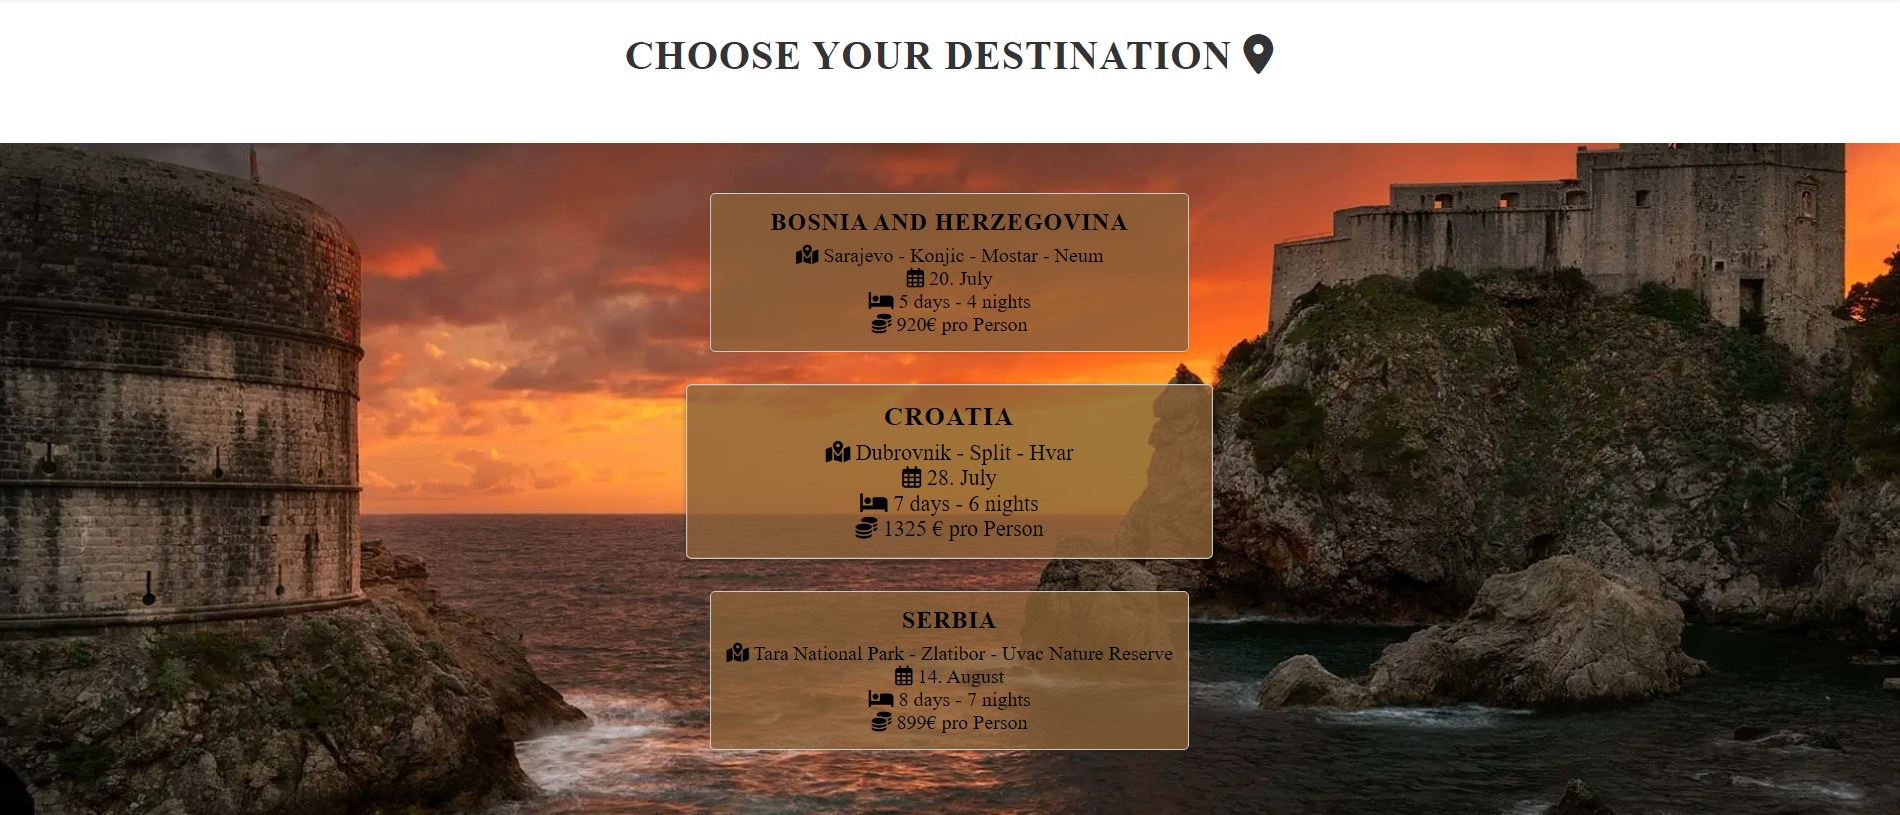
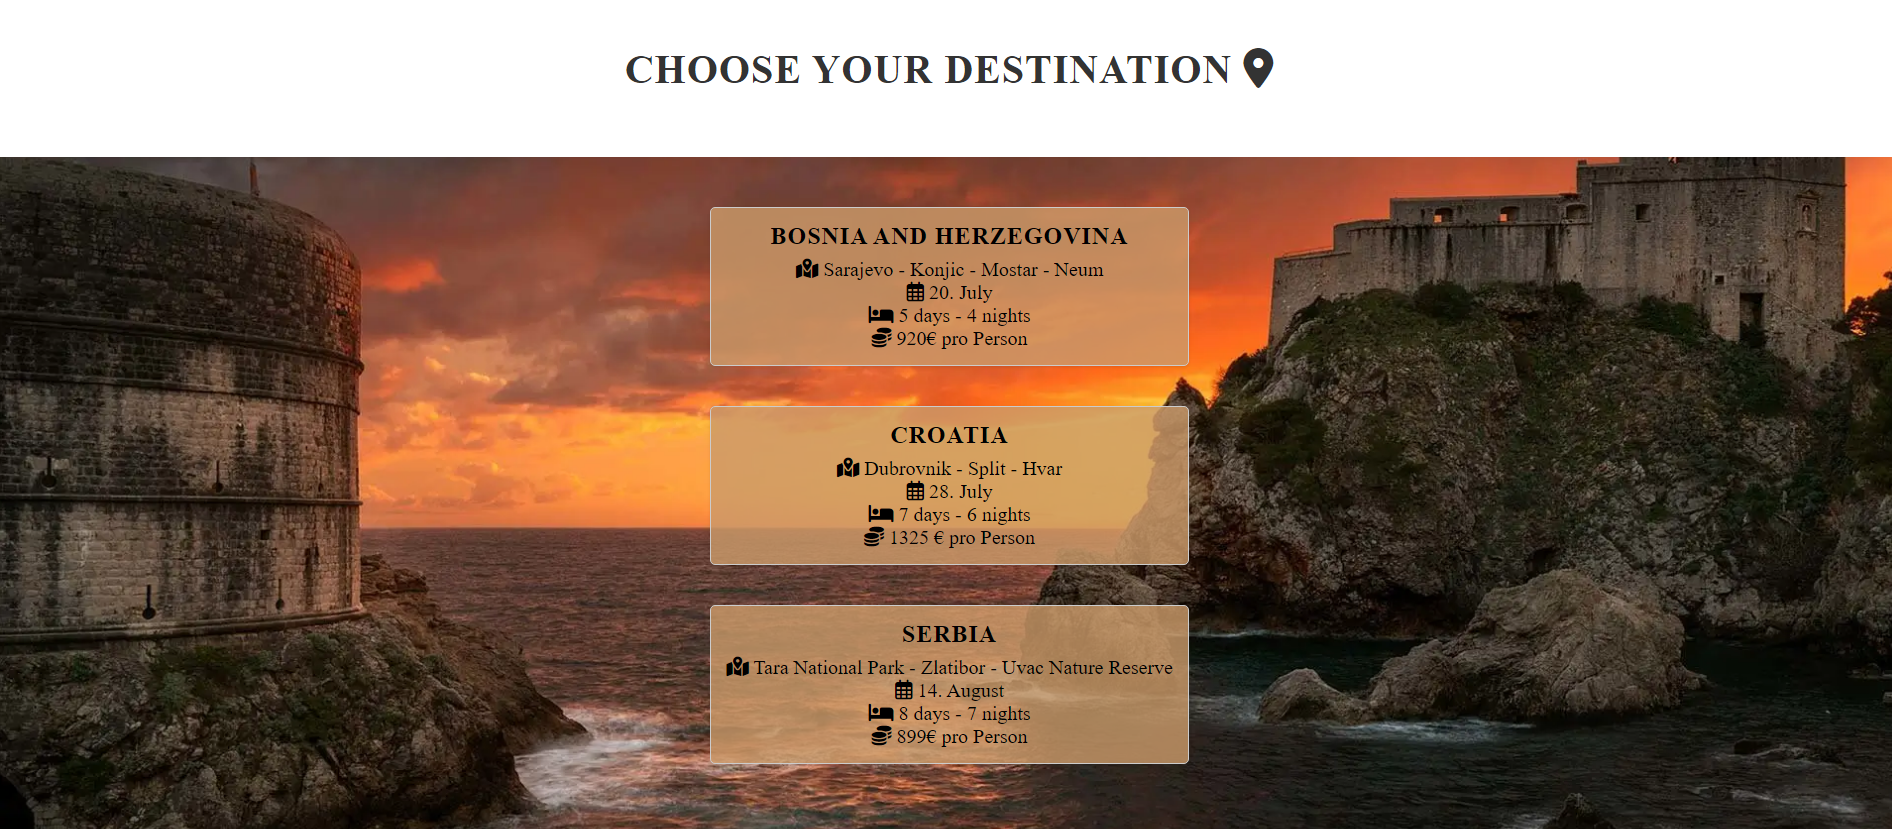
Style and grammar check

diff --git a/index.html b/index.html
@@ -29,7 +29,7 @@
                 <li><a href="index.html" class="active">Home</a></li>
                 <!-- Links to a specific element with the ID "signup" on the current page -->
                 <li><a href="#signup">Sign Up</a></li>
-                <li><a href="gallery.html">Balkan Highlights <i class="fa-regular fa-images"></i></a></li>
+                <li><a href="gallery.html">Balkan Highlights</a></li>
             </ul>
         </nav>
     </header>
@@ -72,7 +72,8 @@
         <section id="signup">
             <h2>Stay Updated on Balkan Adventures <i class="fa-brands fa-gratipay"></i></h2>
             <div id="signup-form">
-                <form action="process_signup.php" method="post">
+                <!-- Formdump CI-->
+                <form method="POST" action="https://formdump.codeinstitute.net">
                     <!-- E-Mail -->
                     <label for="email">E-mail Address:</label>
                     <input type="email" id="email" name="email" required autocomplete="email">
@@ -103,8 +104,7 @@
                         class="fa-brands fa-youtube"></i></a></li>
         </ul>
     </footer>
-<!-- Font Awsome -->
-<link rel="stylesheet" href="https://cdnjs.cloudflare.com/ajax/libs/font-awesome/6.4.2/css/all.min.css">
+    <!-- Font Awsome -->
+    <link rel="stylesheet" href="https://cdnjs.cloudflare.com/ajax/libs/font-awesome/6.4.2/css/all.min.css">
 </body>
-
 </html>

diff --git a/gallery.html b/gallery.html
@@ -16,6 +16,7 @@
     <link rel="icon" type="image/png" sizes="16x16" href="assets/favicon/favicon-16x16.png">
     <link rel="stylesheet" href="assets/css/style.css">
 </head>
+
 <body>
     <header>
         <a href="index.html">
@@ -26,7 +27,8 @@
         <nav>
             <ul id="menu">
                 <li><a href="index.html">Home</a></li>
-                <li><a href="gallery.html" class="active">Balkan Highlights <i class="fa-regular fa-images"></i></a>
+                <li><a href="index.html#signup">Sign Up</a></li>
+                <li><a href="gallery.html" class="active">Balkan Highlights</a>
                 </li>
             </ul>
         </nav>
@@ -64,7 +66,7 @@
                         class="fa-brands fa-youtube"></i></a></li>
         </ul>
     </footer>
-<!-- Font Awsome -->
-<link rel="stylesheet" href="https://cdnjs.cloudflare.com/ajax/libs/font-awesome/6.4.2/css/all.min.css">
+    <!-- Font Awsome -->
+    <link rel="stylesheet" href="https://cdnjs.cloudflare.com/ajax/libs/font-awesome/6.4.2/css/all.min.css">
 </body>
 </html>

diff --git a/assets/css/style.css b/assets/css/style.css
@@ -125,7 +125,7 @@ nav a:hover {
 
 /* Location Boxes - Styles the individual destination boxes */
 #location>div {
-    background-color: rgba(138, 98, 57, 0.8);
+    background-color: rgba(204, 156, 107, 0.8);
     color: #000000;
     padding: 15px;
     margin-bottom: 20px;
@@ -178,7 +178,7 @@ nav a:hover {
 #signup-form {
     display: grid;
     grid-template-rows: auto 1fr auto;
-    gap: 1rem;
+    gap: 0.5rem;
 }
 
 /* Sign Up Form Labels */
@@ -218,7 +218,7 @@ nav a:hover {
     grid-template-columns: repeat(5, 1fr);
     /* Two rows on larger devices */
     grid-template-rows: repeat(2, 1fr);
-    gap: 10px;
+    gap: 18px;
 }
 
 #photos img {
@@ -286,6 +286,8 @@ footer {
         grid-template-columns: repeat(2, 1fr);
         /* Five rows on smaller devices*/
         grid-template-rows: repeat(5, 1fr);
+        padding: 10px;
+        gap: 5px;
         padding-top: 8.5rem;
     }
 

diff --git a/README.md b/README.md
@@ -1,24 +1,11 @@
 # VISIT BALKANS
+
 Embark on an unforgettable journey through the heart of Europe with "Visit Balkans"! Explore a captivating blend of rich history, diverse cultures, stunning landscapes, and warm hospitality.
-
-### Discover hidden gems: 
-Uncover ancient ruins, charming medieval towns, and vibrant cities brimming with life. Immerse yourself in the unique traditions and customs of each Balkan country, from Croatia's stunning coastline to the mountainous beauty of Serbia and Bosnia's captivating cultural heritage.
-
-### Food
-Indulge your taste buds: Savor the flavors of the Balkans with its delicious cuisine, a fusion of Mediterranean, Turkish, and Slavic influences. Feast on hearty grilled meats, fresh seafood, savory pastries, and flavorful local wines.
-
-### Adventure awaits:  
-Whether you're seeking outdoor thrills or tranquil escapes, the Balkans have it all. Hike through pristine national parks, relax on idyllic beaches, ski down snowy slopes, or explore picturesque river valleys.
-
-### Experience warm hospitality: 
-The Balkans are renowned for their welcoming locals who are eager to share their traditions and stories. Engage with friendly villagers, learn about their crafts, and create lasting memories.
-
-### Off - the - beaten - path wonders: 
-Escape the crowds and discover the Balkans' hidden treasures. Wander through picturesque villages, explore ancient monasteries, and soak in the natural beauty of unspoiled landscapes.
 
 **Your Balkan adventure starts here!  Let "Visit Balkans" be your guide to this enchanting region, where history, culture, and nature intertwine to create an unforgettable travel experience. Start planning your dream Balkan trip today!**
 
 ## User goals
+
 Visit Balkans is for all adventurous travelers seeking unique experiences, history and culture enthusiasts, foodies, nature lovers, budget - conscious explorers, and those who crave authentic, off - the - beaten - path adventures.
 
 - **Experience cultural diversity**: Explore the unique cultures, traditions, and customs of different Balkan countries.
@@ -38,43 +25,45 @@ Visit Balkans is for all adventurous travelers seeking unique experiences, histo
 - **Relax and rejuvenate**: Enjoy the slower pace of life in the Balkans and disconnect from the stresses of everyday life.
 
 ## Features
+
 - **Am I responsive**
   - Visit Balkans is fully responsive and optimized for a seamless browsing experience on all devices, from smartphones to tablets to desktops.
 
 ![Am I Responsive](assets/images/amiresponsive.png)
 
+## Layout and Content
+
 ### First page / Home page
+
 This is the homepage for a travel website called "Visit Balkans." It aims to promote tourism in the Balkan region, specifically Bosnia and Herzegovina, Croatia, and Serbia.
 
 ![First page / Home page](assets/images/homepage.png)
 
-## Layout and Content
 ### Header
+
 The header features a sleek navigation menu with links to "Home", "Sign Up" and "Balkan Highlights". Upon hovering over each link, a subtle underline effect gracefully appears, enhancing the user experience and guiding them towards their desired section of the website.
+
 - A title ("Visit Balkans") that links back to the homepage.
 - A navigation menu with links to:
   - **Home**: The current page.
   - **Sign Up**: The "Sign Up" link in the navigation menu is designed to take the user to the Sign up section within the same webpage. When clicked, it will automatically scroll the page down to the section where the Sign up form is located, allowing the user to quickly access and complete the form without having to manually scroll through the page.
   - **Balkan Highlights**: The "Balkan Highlights" link in the navigation menu is a hyperlink that, when clicked, will take the user to a new webpage called "gallery.html". This page is expected to contain a collection of images showcasing the beauty and diversity of the Balkan region.
 
-The header, featuring the logo and navigation menu, remains fixed at the top of the screen throughout the user's scrolling journey, ensuring easy access and navigation. This design choice is inspired by the Love Running project's emphasis on user - friendly interfaces and intuitive navigation.
-
-![Header](assets/images/header.png)
+The header, featuring the logo and navigation menu, remains fixed at the top of the screen throughout the user's scrolling journey, ensuring easy access and navigation. This design choice is inspired by the Love Running project.
 
 **Responsive Header:**
-On smaller screens (typically below 768px width), the header layout changes to a vertical arrangement. This ensures better usability on devices with limited screen space. The elements within the header (title, "Home", "Sign Up" and "Balkan Highlights") will stack in a single column, one below the other.
+On smaller screens (below 768px width), the header layout changes to a vertical arrangement. This ensures better usability on devices with limited screen space. The elements within the header (title, "Home", "Sign Up" and "Balkan Highlights") will stack in a single column, one below the other.
 
 ![Responsive Header](assets/images/responsiveheader.png)
 
 ### Main Content
-- **Travel Section (Image)**: This section likely features a large background image showcasing the essence of travel, with visuals of passports, airplanes, maps, and other iconic symbols that evoke the spirit of adventure and exploration.
 
-![Travel Image](assets/images/travelimage.png)
+- **Travel Section (Image)**: This section likely features a large background image showcasing the essence of travel, with visuals of passport, airplane, maps, and other iconic symbols that evoke the spirit of adventure and exploration.
 
 - **Destinations Section**
   - A heading ("Choose Your Destination") with a location icon.
-  - Three featured tour packages: 
-Each package showcases a captivating Balkan destination (Bosnia and Herzegovina, Croatia, or Serbia), offering a glimpse into a carefully curated itinerary with highlights of key locations, travel dates, duration, and cost per person. 
+  - Three featured tour packages:
+Each package showcases a captivating Balkan destination (Bosnia and Herzegovina, Croatia, or Serbia), offering a glimpse into a carefully curated itinerary with highlights of key locations, travel dates, duration, and cost per person.
   - Engage with the tours through an interactive hover effect, where each package subtly expands upon mouseover, inviting you to delve deeper into the details of your dream Balkan adventure.
 
 ![Destinations](assets/images/destinations.png)
@@ -82,9 +71,9 @@ Each package showcases a captivating Balkan destination (Bosnia and Herzegovina,
 - **Sign Up Section**:
   - Heading: An engaging headline encourages users to stay informed about the latest Balkan adventures, special offers, and travel tips.
   - Sign Up Form: A user - friendly form includes fields for:
-     - Email Address: This field prompts users to enter their email address and offers autofill suggestions based on previously saved email addresses in their browser. It also includes validation to ensure the email format is correct (i.e., contains "@"). If an invalid email is entered, an error message (e.g., "Please enter a valid email address") is displayed below the field.
-     - Password: This field requests users to create a password for their account. If left empty, an error message (e.g., "Please enter a password") appears below the field.
-     - "Sign Up" Button: A visually prominent button enables users to submit the form. Upon clicking, if any required fields are not filled in correctly, an overall error message (e.g., "Please fill in all required fields") is displayed at the top of the form, and the relevant field - specific error messages are shown.
+    - Email Address: This field prompts users to enter their email address and offers autofill suggestions based on previously saved email addresses in their browser. It also includes validation to ensure the email format is correct (i.e., contains "@"). If an invalid email is entered, an error message (e.g., "Please enter a valid email address") is displayed below the field.
+    - Password: This field requests users to create a password for their account. If left empty, an error message (e.g., "Please enter a password") appears below the field.
+    - "Sign Up" Button: A visually prominent button enables users to submit the form. Upon clicking, if any required fields are not filled in correctly, an overall error message (e.g., "Please fill in all required fields") is displayed at the top of the form, and the relevant field - specific error messages are shown.
 
 ![Destinations](assets/images/signupform.png)
 
@@ -93,17 +82,13 @@ Each package showcases a captivating Balkan destination (Bosnia and Herzegovina,
 ![Social Media Network](assets/images/socialmediafooter.png)
 
 ## Balkan Highlights
+
 This page showcases the stunning beauty and diversity of the Balkan region through a curated collection of photographs captured in Bosnia and Herzegovina, Croatia, and Serbia.
-
-- **Navigation Bar**:
-  - The navigation bar prominently displays the page title ("Visit Balkans").
-  - A "Home" link allows seamless return to the main website, where users can find the "Sign Up" option for subscribing to updates and offers.
-  - The navigation bar is fixed at the top of the screen for easy access while scrolling. (Inspired by Love Running Project).
-
-  ![Balkan Highlights](assets/images/balkanhighlights.png)
 
 - **Responsive Design**:
   - On larger screens (desktops/tablets), the image gallery is presented in two rows of five images each.
+  - **Interactive Hover Effect**:
+Hovering over an image triggers a subtle scaling effect, making the image slightly larger.
 
    ![Images on larger screens](assets/images/imageslargerscreens.png)
 
@@ -111,17 +96,8 @@ This page showcases the stunning beauty and diversity of the Balkan region throu
 
       ![Images on smaller screens](assets/images/imagessmallerscreens.png)
 
-- **Interactive Hover Effect**:
-Hovering over an image triggers a subtle scaling effect, making the image slightly larger and creating a visual cue for interactivity.
-
-![Images Hover Effect](assets/images/imageshover.png)
-
-- **Footer**:
-The footer includes links to the website's social media profiles, encouraging engagement and community building.
-
-![Social Media Network](assets/images/socialmediafooter.png)
-
 ### **How to Use**
+
 1. Access the "Balkan Highlights" page from the main website's navigation menu.
 2. Explore the gallery by scrolling through the images.
 3. Hover over images to reveal a subtle enlargement effect.
@@ -129,15 +105,18 @@ The footer includes links to the website's social media profiles, encouraging en
 5. Use the "Home" link in the navigation bar to return to the main website, where you can find the "Sign Up" option to subscribe to updates and offers.
 
 ## Major Bugs & Fixes
+
 1. **Images**
    - **Initial Lighthouse Performance Score**: 52 (Poor)
    - **Issue**: Large image sizes were significantly impacting page load times.
    - **Solution**: Image optimization was performed using ShortPixel and TinyPNG to reduce file sizes without sacrificing visual quality. This resulted in a substantial improvement in the Lighthouse performance score.
 
 ## Validation
+
 Through the use of various tools and validators, a well - designed site that meets all web standards has been achieved.
 
 ### Lighthouse
+
 The site has successfully met the performance, accessibility, best practices, and SEO criteria set by Lighthouse.
 
 - **Home page**: Achieved perfect scores (100) across all categories: Performance, Accessibility, Best Practices, and SEO.
@@ -149,6 +128,7 @@ The site has successfully met the performance, accessibility, best practices, an
 ![Lighthouse Balkan Highlights page](assets/images/lighthousegallery.png)
 
 ### HTML Validation
+
 - The HTML code was validated to ensure compliance with web standards
 - Both index.html and gallery.html have been validated using an HTML validator and are free of errors, ensuring clean and standards - compliant code.
 
@@ -157,12 +137,14 @@ The site has successfully met the performance, accessibility, best practices, an
 ![HTML Validator Gallery page](assets/images/htmlvalidatorgallerypage.png)
 
 ### CSS Validation
+
 - CSS code was validated to ensure compliance with web standards.
 - No errors or warnings.
 
 ![CSS Validator](assets/images/cssvalidator.png)
 
 ## Technology used
+
 - **HTML**: Structure of the web pages.
 - **CSS**: Styling of the web pages, including responsive design for various screen sizes.
 - **Favicon**: Globe icon for the website.
@@ -171,11 +153,13 @@ The site has successfully met the performance, accessibility, best practices, an
 - **CSS Validator**: A tool that analyzes the CSS code for syntax errors and potential issues. It ensures your styles are valid and optimized, contributing to a smooth user experience across different browsers.
 
 ## Deployment
+
 - The site was deployed using GitHub Pages.
-- The repository can be found at: https://github.com/Amila3951/Visit-Balkans.git
-- The deployed site can be found at: https://8000-amila3951-visitbalkans-6k6niljqsfh.ws-eu115.gitpod.io/index.html
+- The repository can be found at: <https://github.com/Amila3951/Visit-Balkans.git>
+- The deployed site can be found at: <https://8000-amila3951-visitbalkans-6k6niljqsfh.ws-eu115.gitpod.io/index.html>
 
 ### GitHub Deployment
+
 1. Login or Sign Up to GitHub.
 2. Open the project repository.
 3. Navigate to "Settings" on the navigation bar under the repository title.
@@ -186,20 +170,25 @@ The site has successfully met the performance, accessibility, best practices, an
 8. The URL is displayed above "Source".
 
 ### Meta Information
+
 - **Description**: "Plan your dream Balkan vacation today! Discover unique destinations, off - the - beaten - path adventures, and affordable travel options. Visit Balkans - your gateway to the heart of Europe."
 - **Keywords**: "travel, travel agency, travel page, Balkans, Bosnia and Herzegovina, Croatia, Serbia, visit Balkans, vacation, trip, visit Balkan, Balkan travel, Balkan tour, Balkan trip, Balkan vacation, Balkan holiday, Balkan adventure, Balkan destinations, Balkan countries, Balkan tourism, things to do in the Balkans"
 
 ### Favicon
+
 - [Favicon](https://www.flaticon.com/search?word=globe)
 
 #### Images
+
 - [iStock](https://www.istockphoto.com/de)
 - [Freepic](https://www.freepik.com/)
 - [Pinterest](https://www.pinterest.com/)
 
 **Image Optimization**:
+
 - [Short Pixel](https://shortpixel.com/)
 - [TinyPNG](https://tinypng.com/)
 
 ## Credits
+
 - The fixed header and social media footer design were inspired by the **Love Running Project**.
